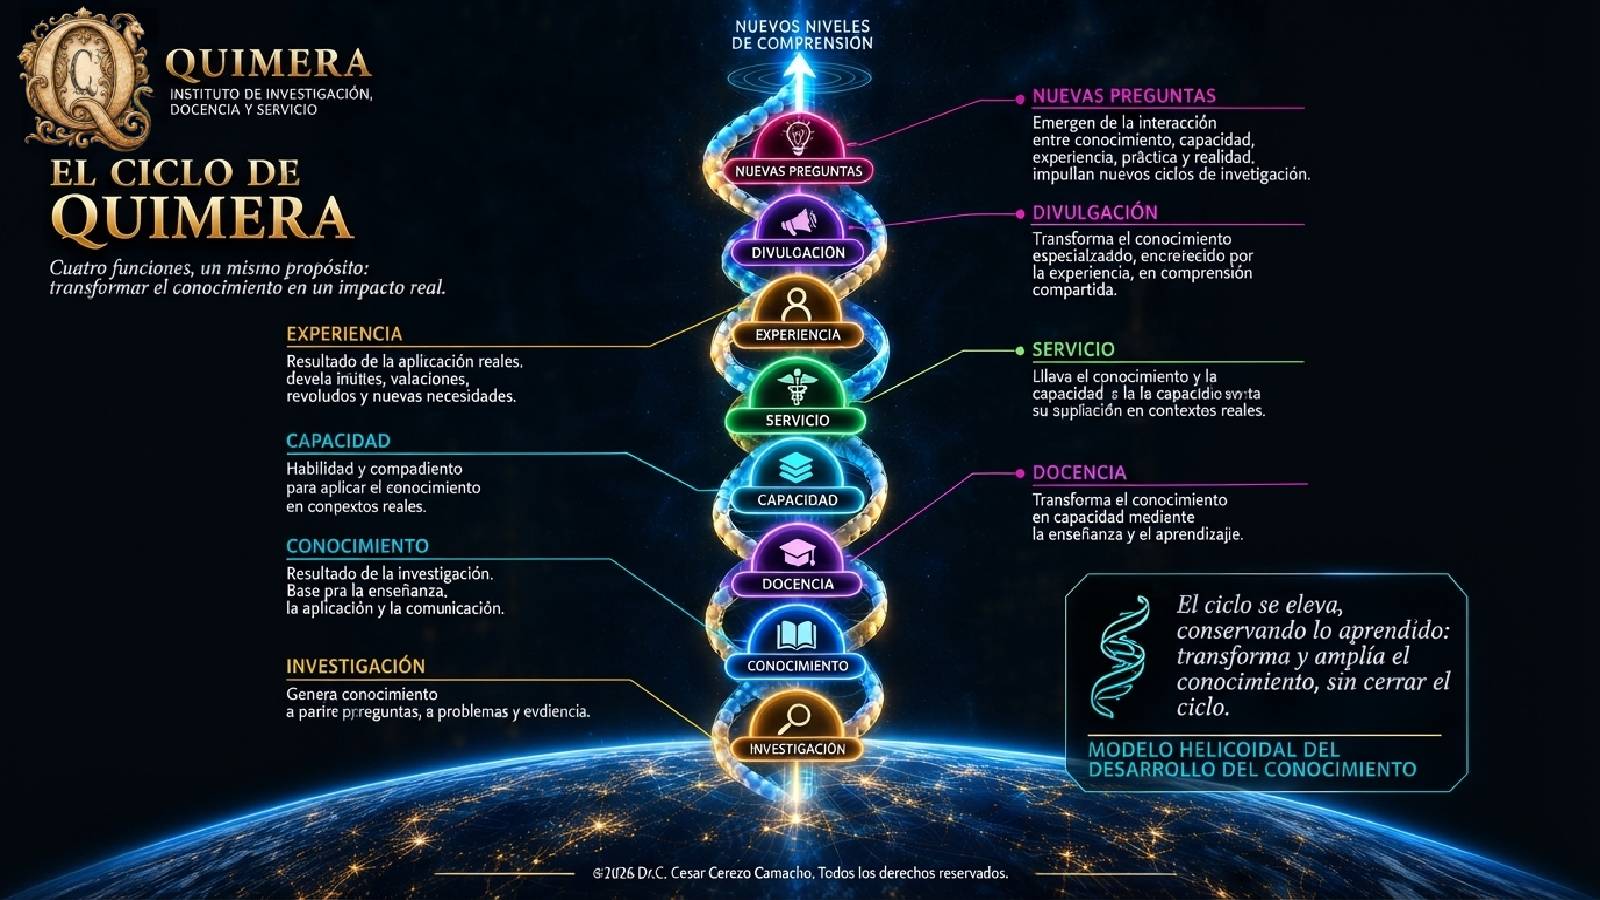
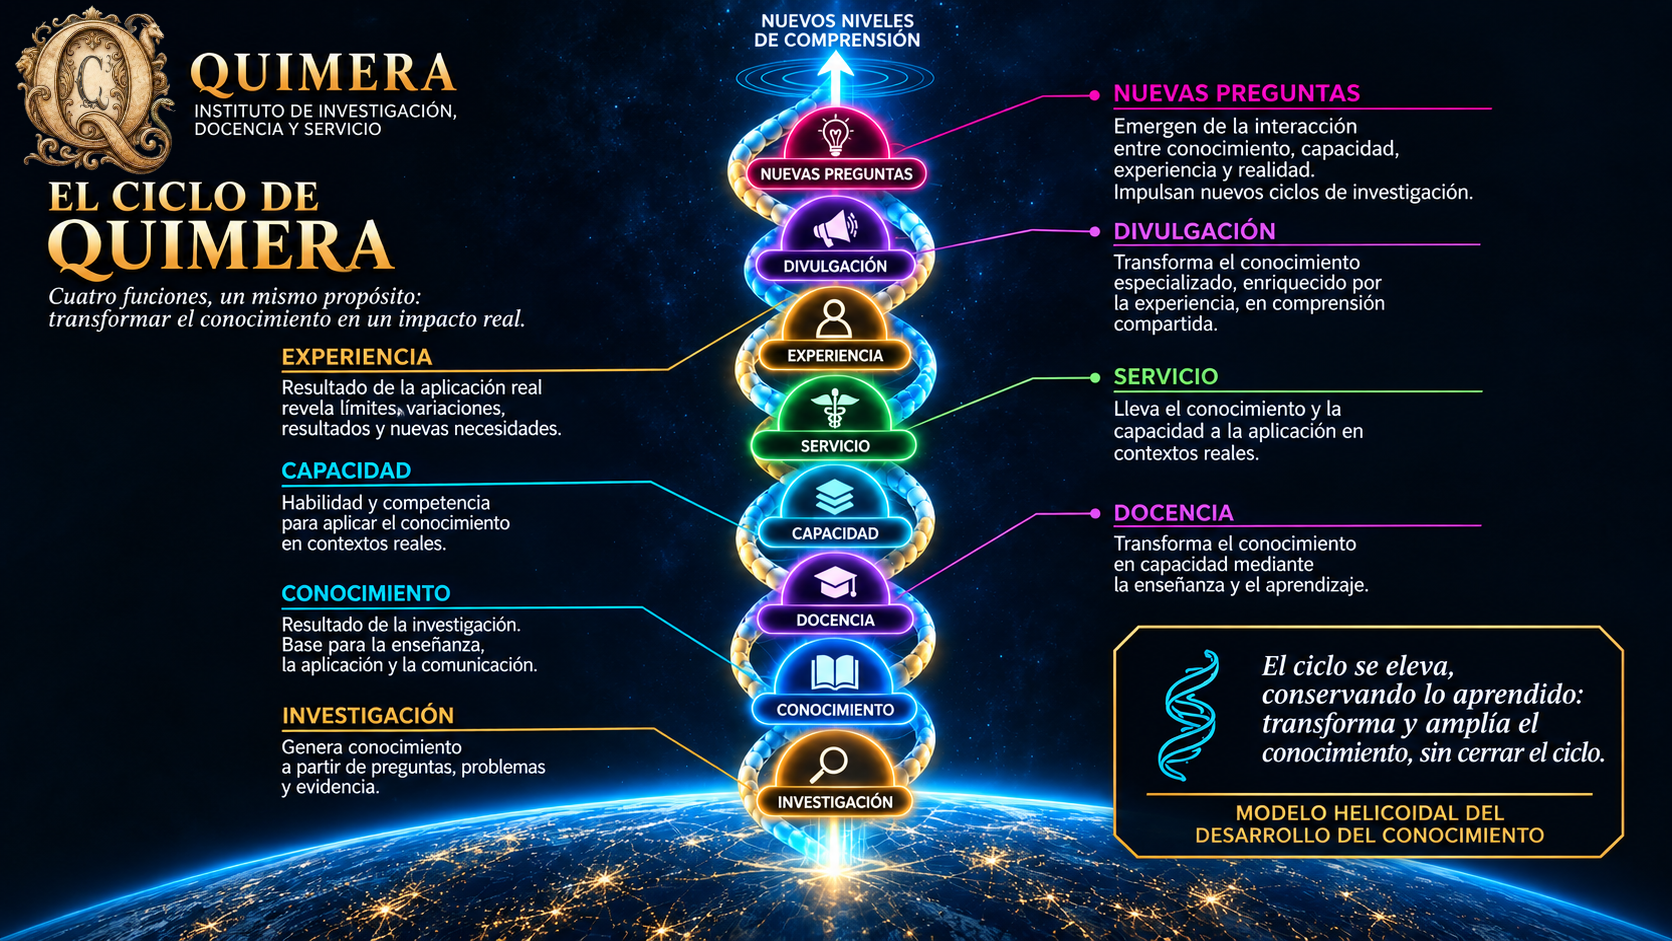
Quimera activada

diff --git a/index.html b/index.html
@@ -649,7 +649,7 @@
             },
             {
                 title: "EL CICLO DE QUIMERA.",
-                text: "Investigación, docencia, servicio y divulgación:\nNo constituyen actividades aisladas, ni procesos independientes.\n\nForman un sistema interdependiente de transformación y retroalimentación que se articula como un ciclo de desarrollo del conocimiento, el cual se deriva del <a onclick=\"startHelicoidalSequence()\">Modelo Helicoidal del Desarrollo del Conocimiento</a> desarrollado por el Dr. Cerezo:\n\n<a onclick=\"openSubModal('ECQ.webp')\">EL CICLO DE QUIMERA</a>\nLa INVENSTIGACIÓN genera conocimiento.\nLa DOCENCIA transforma conocimiento en capacidad.\nEl SERVICIO transforma la capacidad en experiencia mediante su aplicación en contextos reales.\nLa DIVULGACIÓN transforma el conocimiento especializado enriquecido por la experiencia, en comprensión compartida.\nDe la interacción entre conocimiento, capacidad, experiencia y realidad, emergen nuevas preguntas que impulsan nuevamente a la investigación.\n\nPor ello, el ciclo se eleva, conservando lo aprendido:\nTransforma y amplía el conocimiento, sin cerrar el ciclo."
+                text: "Investigación, docencia, servicio y divulgación:\nNo constituyen actividades aisladas, ni procesos independientes.\n\nForman un sistema interdependiente de transformación y retroalimentación que se articula como un ciclo de desarrollo del conocimiento, el cual se deriva del <a onclick=\"startHelicoidalSequence()\">Modelo Helicoidal del Desarrollo del Conocimiento</a> desarrollado por el Dr. Cerezo:\n\n<a onclick=\"openSubModal('ECQ.webp')\">EL CICLO DE QUIMERA</a>\nLa INVESTIGACIÓN genera conocimiento.\nLa DOCENCIA transforma conocimiento en capacidad.\nEl SERVICIO transforma la capacidad en experiencia mediante su aplicación en contextos reales.\nLa DIVULGACIÓN transforma el conocimiento especializado enriquecido por la experiencia, en comprensión compartida.\nDe la interacción entre conocimiento, capacidad, experiencia y realidad, emergen nuevas preguntas que impulsan nuevamente a la investigación.\n\nPor ello, el ciclo se eleva, conservando lo aprendido:\nTransforma y amplía el conocimiento, sin cerrar el ciclo."
             },
             {
                 title: "LA IDENTIDAD SIMBÓLICA DE QUIMERA.",
